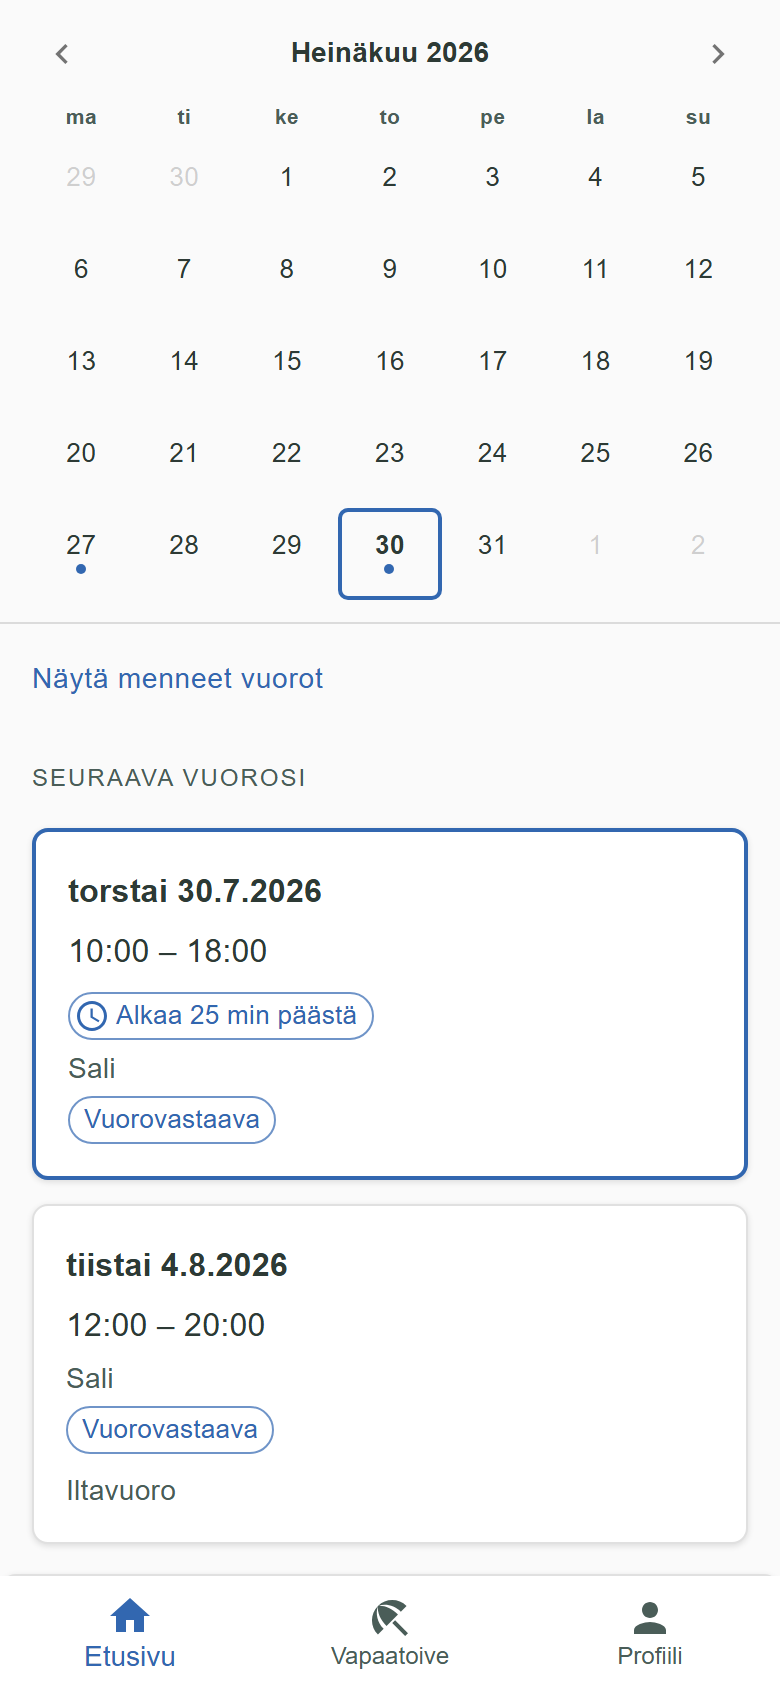
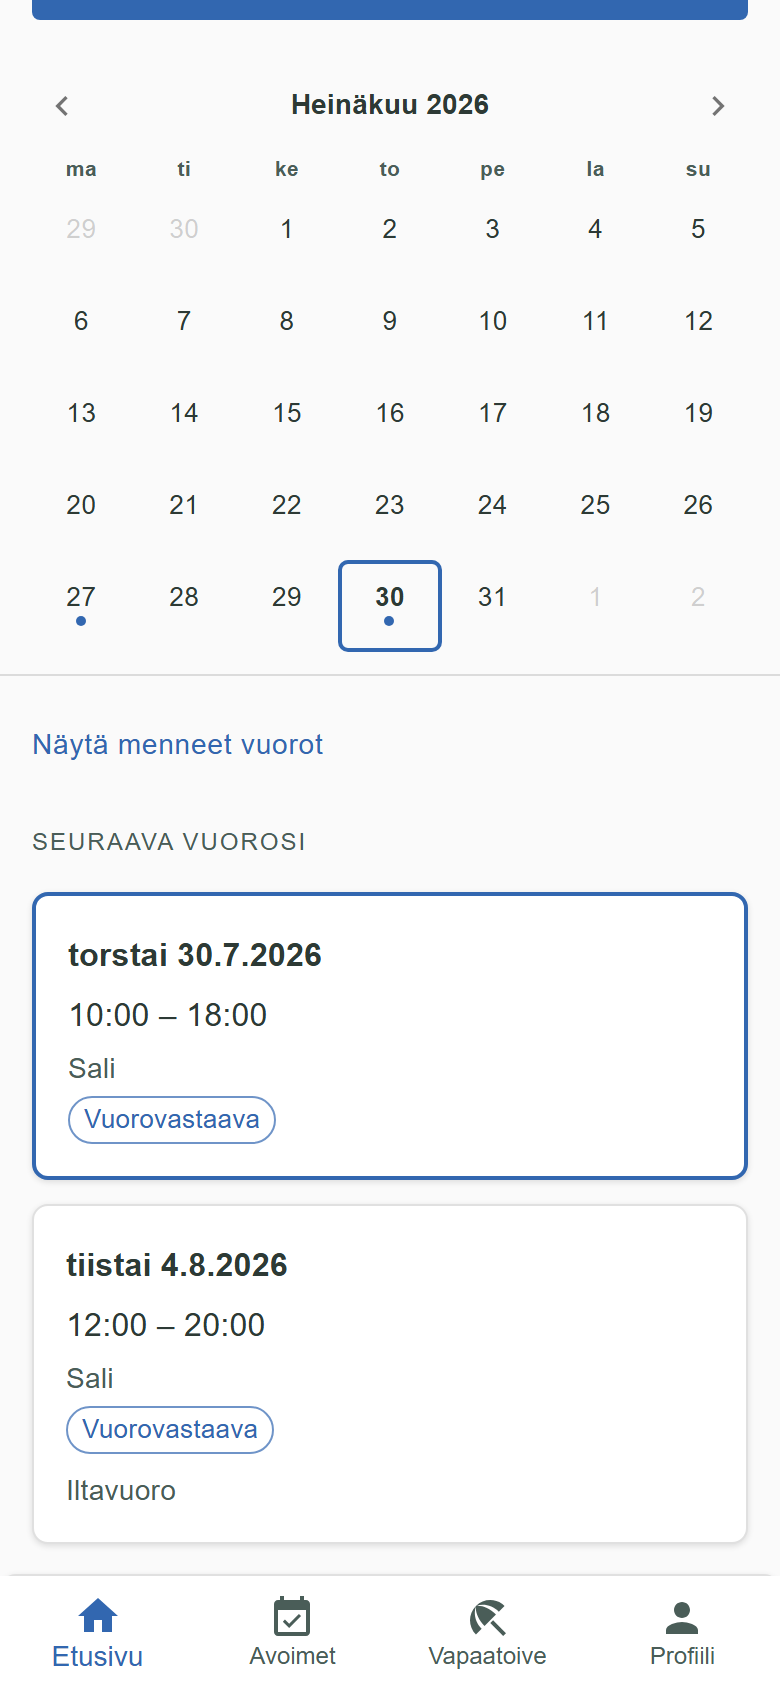
Update blog post images for osaamiset and enhance content regarding open shift sign-ups based on skill requirements.

diff --git a/src/pages/posts/tyontekijoiden_osaamiset.md b/src/pages/posts/tyontekijoiden_osaamiset.md
@@ -10,6 +10,8 @@ image:
 tags: ['päivitykset', 'uudet ominaisuudet', 'palkkaraportti']
 ---
 
+*Päivitetty 30.7.2026: avoimien vuorojen ilmoittautuminen rajautuu nyt osaamisen mukaan – katso uusi osio alempana.*
+
 Työvuorolistaan on lisätty **osaamiset**: työpaikkakohtaiset nimikkeet, jotka voit liittää sekä työntekijöihin että työvuoroihin. Osaaminen voi olla vastuurooli (*vuorovastaava*, *anniskeluvastaava*), pätevyys (*hygieniapassi*, *B-kortti*) tai mikä tahansa muu nimike, jolla on merkitystä vuorosuunnittelussa tai palkanlaskennassa.
 
 Toiminto on heti käytössä kaikilla työpaikoilla – mitään ei tarvitse aktivoida erikseen. Osaamisiin liittyvät kentät ilmestyvät näkyviin, kun luot työpaikallesi ensimmäisen osaamisen.
@@ -117,10 +119,20 @@ Jos viet palkka-aineiston Procountoriin, anna osaamiselle **palkkalajikoodi** Os
 
 Osaamista ei poisteta, vaan se **arkistoidaan**. Arkistoitu osaaminen katoaa kaikista valintalistoista, mutta säilyy vanhoissa vuoroissa ja raporteissa – näin viime kuun palkkaraportti näyttää samat rivit myös jälkikäteen ajettuna. Jos taas muutat osaamisen nimeä, uusi nimi näkyy myös vanhoissa raporteissa.
 
+## Avoimet vuorot: vain osaava voi ilmoittautua *(uusi 30.7.2026)*
+
+Jos avoimella vuorolla on osaamisvaatimus, siihen voivat ilmoittautua Oma-portaalissa vain työntekijät, joilta vaadittu osaaminen löytyy.
+
+Vuoro näkyy silti **kaikille** tiimin työntekijöille – tämä on tarkoituksellista. Työntekijä näkee vuoron, sen vaatiman osaamisen ja syyn, miksi ilmoittautuminen ei ole mahdollista: *"Vaatii osaamisen: Anniskeluvastaava. Puuttuuko osaamismerkintä? Kysy esihenkilöltäsi."* Näin osaamisvaatimukset toimivat myös kannustimena – työntekijä huomaa, mikä osaaminen avaisi lisää vuoroja, ja toisaalta puuttuvat osaamis*merkinnät* tulevat esiin ja korjatuiksi.
+
+<img src="/blogPostImages/osaamiset/oma-avoin-vuoro-osaaminen.png" alt="Oma-portaalin avoimet vuorot puhelimella: ylempään vuoroon työntekijä voi ilmoittautua, alempi vaatii osaamisen jota hänellä ei ole – ilmoittautumispainike on pois käytöstä ja vieressä lukee syy" width="60%" style="max-width: 400px; display: block; margin: 20px auto;" />
+
+Sinulle esihenkilönä mikään ei muutu: voit edelleen antaa minkä tahansa vuoron kenelle tahansa. Jos ilmoittautuneen työntekijän osaaminen on ehtinyt muuttua ilmoittautumisen jälkeen (esim. lisäsit vuorolle vaatimuksen jälkikäteen), näet ilmoittautumisen kohdalla varoitusmerkinnän – mutta hyväksyntä on aina sinun päätöksesi.
+
 ## Mitä osaamiset eivät (vielä) tee
 
-- Järjestelmä **ei estä** merkitsemästä vuoroon työntekijää ilman vaadittua osaamista – varoitus on tarkoituksella vain varoitus.
-- Avoimien vuorojen ilmoittautumista **ei vielä rajata** osaamisen mukaan – kuka tahansa tiimin työntekijä voi ilmoittautua avoimeen vuoroon, vaikka vuorolla olisi osaamisvaatimus. Tämä on työn alla seuraavaksi.
+- Järjestelmä **ei estä sinua** merkitsemästä vuoroon työntekijää ilman vaadittua osaamista – varoitus on tarkoituksella vain varoitus. (Työntekijän oma ilmoittautuminen avoimeen vuoroon sen sijaan vaatii osaamisen, katso yllä.)
 - Osaamisilla ei ole **voimassaoloaikoja** (esim. hygieniapassin vanheneminen) eikä tasoja.
+- Ilmoituksia ei (vielä) lähetetä, kun osaamistasi vastaava avoin vuoro julkaistaan.
 
 Jos jokin näistä olisi sinulle tärkeä, laita viestiä (Antti, info@tyovuorolista.fi) – rakennan näitä siinä järjestyksessä, missä niille on oikeaa tarvetta.

diff --git a/src/pages/posts/oma_portaali_ohje.md b/src/pages/posts/oma_portaali_ohje.md
@@ -80,7 +80,7 @@ Avoimet vuorot ovat aluksi vain sinun nähtävissäsi. Kun haluat tarjota niitä
 - **Koko listan avoimet vuorot kerralla:** Julkaise-näkymässä on painike **Julkaise avoimet vuorot**. Tämä on eri asia kuin listan julkaisu – voit tarjota avoimia vuoroja jo ennen kuin lista on julkaistu.
 - **Yksittäinen vuoro:** avaa avoin vuoro kalenterista ja paina **Julkaise työntekijöille**. Samasta paikasta voit myös perua julkaisun.
 
-Julkaisun jälkeen vuoro näkyy tiimin työntekijöille Oma-portaalissa, ja he voivat **ilmoittautua** siihen. Useampi työntekijä voi ilmoittautua samaan vuoroon – sinä valitset, kuka vuoron saa.
+Julkaisun jälkeen vuoro näkyy tiimin työntekijöille Oma-portaalissa, ja he voivat **ilmoittautua** siihen. Useampi työntekijä voi ilmoittautua samaan vuoroon – sinä valitset, kuka vuoron saa. Jos vuorolla on [osaamisvaatimus](/posts/tyontekijoiden_osaamiset), ilmoittautua voivat vain työntekijät, joilta vaadittu osaaminen löytyy – vuoro näkyy silti kaikille.
 
 Ilmoittautumiset näet avaamalla vuoron kalenterista. **Hyväksy** antaa vuoron ilmoittautuneelle: vuoro siirtyy hänen nimiinsä, ilmestyy hänen aikajanalleen portaalissa ja muiden ilmoittautumiset hylätään automaattisesti. Ennen hyväksyntää järjestelmä tarkistaa vielä, ettei työntekijälle ole tullut päällekkäistä vuoroa ilmoittautumisen jälkeen.
 
